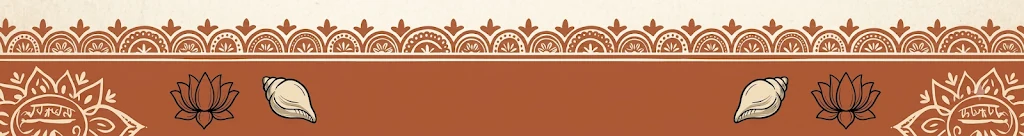
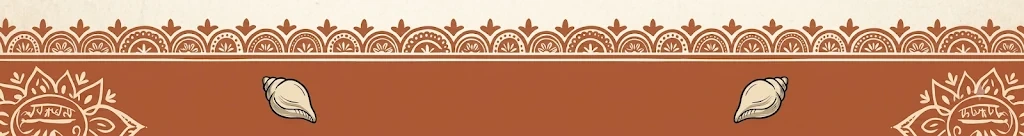
Footer band: no lotus, and it reaches both edges
The two lotuses are painted out with clean band copied from the middle of the
strip, so the tone and the thin top edge carry over exactly; the conches and
the corner mandalas are untouched. Checked afterwards by looking for dark
pixels where they used to be - none left - and counting the ones the conches
are drawn with, which are all still there.

Past 1440px the strip stopped widening and the footer's flat colour filled
what was left, so the alpona ended with a hard edge on each side. The same
artwork now tiles behind it, centred, which puts a whole motif in the middle
and an equal part-tile at each end. A tile is 1440px wide - the cap the image
already has - and 1440 x 136/1024 is 191.25px, exactly this block's height,
so the centre tile lands on the image rather than beside it. Below the cap
the image still covers the block on its own and nothing is drawn behind it.

Changed region(s): [[0.7812, 0.5294, 0.875, 0.9412], [0.1562, 0.5294, 0.25, 0.9412]]

diff --git a/app/globals.css b/app/globals.css
@@ -8535,6 +8535,30 @@ video::cue {
 }
 
 /*
+  Past 1440px the strip stops widening, and what used to fill the space either
+  side of it was the footer's flat colour - the alpona simply stopped, twice,
+  with a hard edge. The same artwork is tiled behind it instead, so the band
+  reads as one continuous border however wide the screen is.
+
+  The numbers have to agree with the image above or the centre copy and the
+  tile behind it will not line up: a tile is 1440px wide, the same cap the
+  image has, and `100%` of this block's height is exactly 1440 x 136/1024 =
+  191.25px, which is that tile at its own proportions. Centring the repeat
+  puts the whole motif in the middle and an equal part-tile at each end.
+
+  Only above the cap, because below it the image already covers this block and
+  a background behind it would be wasted work.
+*/
+@media (min-width: 1440px) {
+  .utsav-footer__banner {
+    background-image: url('/assets/footer-banner.webp');
+    background-repeat: repeat-x;
+    background-position: center top;
+    background-size: 1440px 100%;
+  }
+}
+
+/*
   The panel is lifted off the alpona rather than printed on it.
   
   The banner above is a drawn motif, and the footer text used to sit flat on the

diff --git a/components/site-footer.tsx b/components/site-footer.tsx
@@ -11,7 +11,7 @@ export default function SiteFooter({ variant = 'public' }: SiteFooterProps) {
                 <img
                     className="utsav-footer__bannerImage"
                     src="/assets/footer-banner.webp"
-                    alt="BANGIYA.SAMITI.IIITH Bengali Cultural Alpona & Lotus Motif"
+                    alt="BANGIYA.SAMITI.IIITH Bengali cultural alpona and conch motif"
                     width="1024"
                     height="136"
                     loading="lazy"
